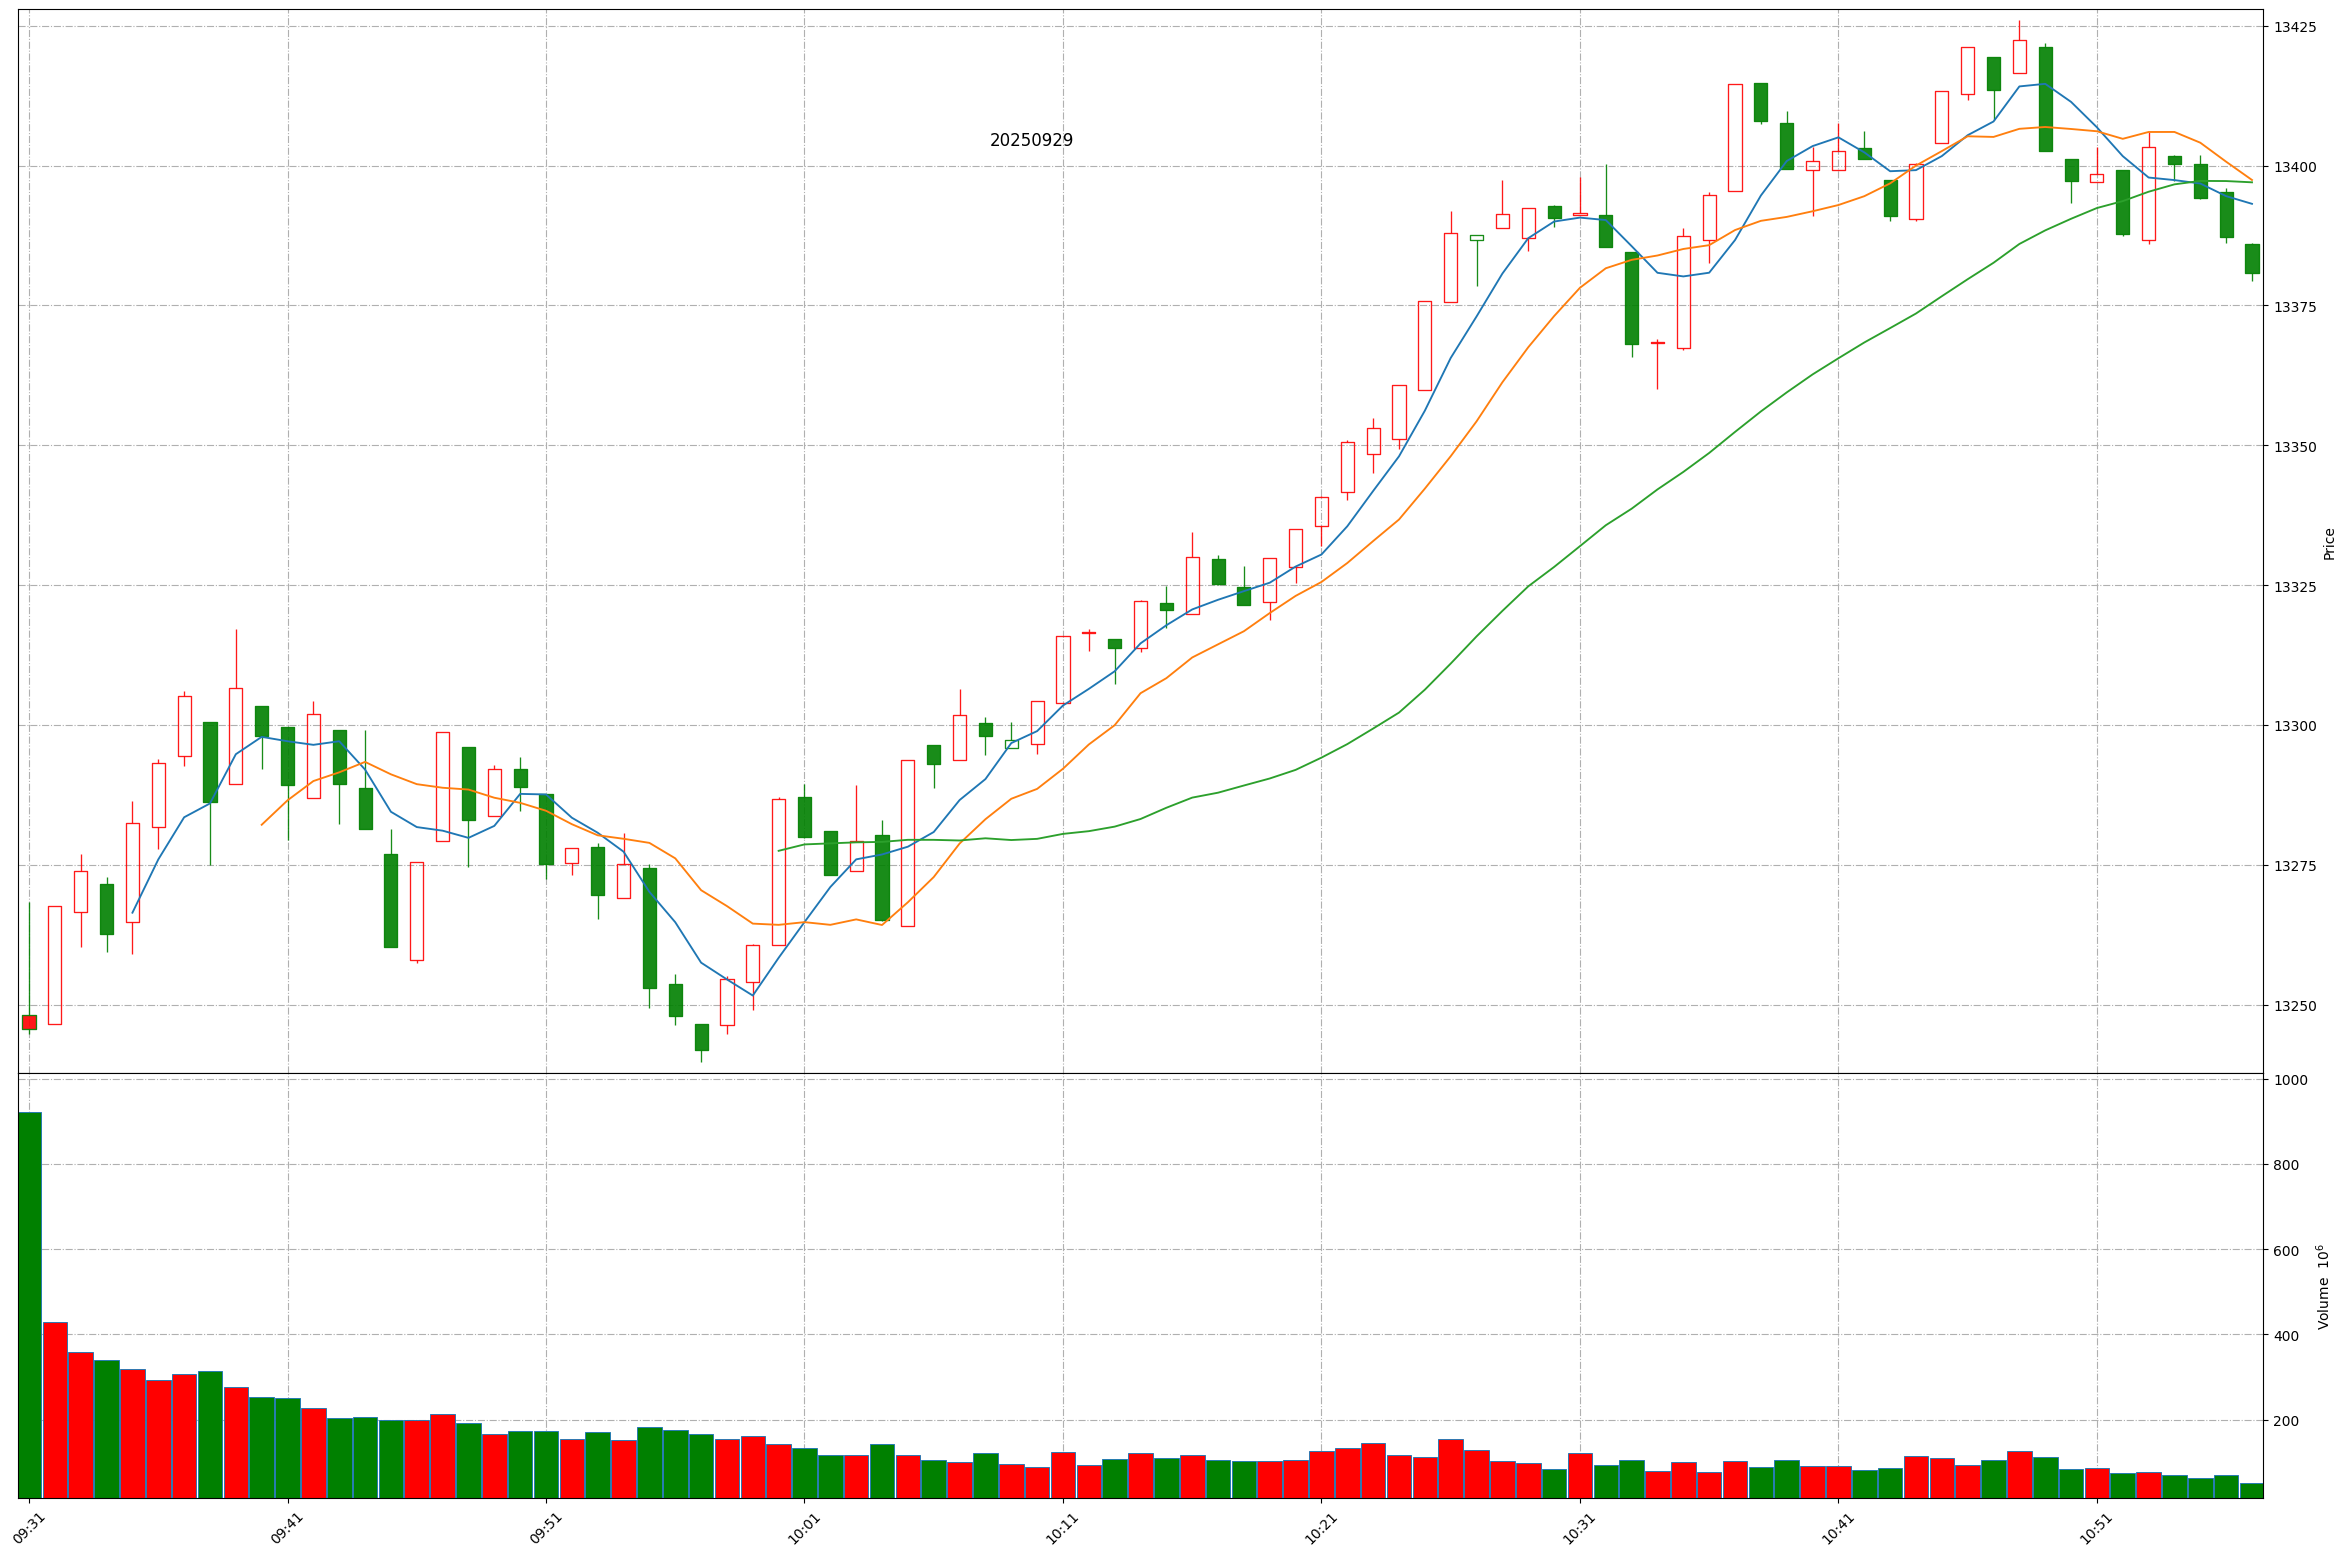
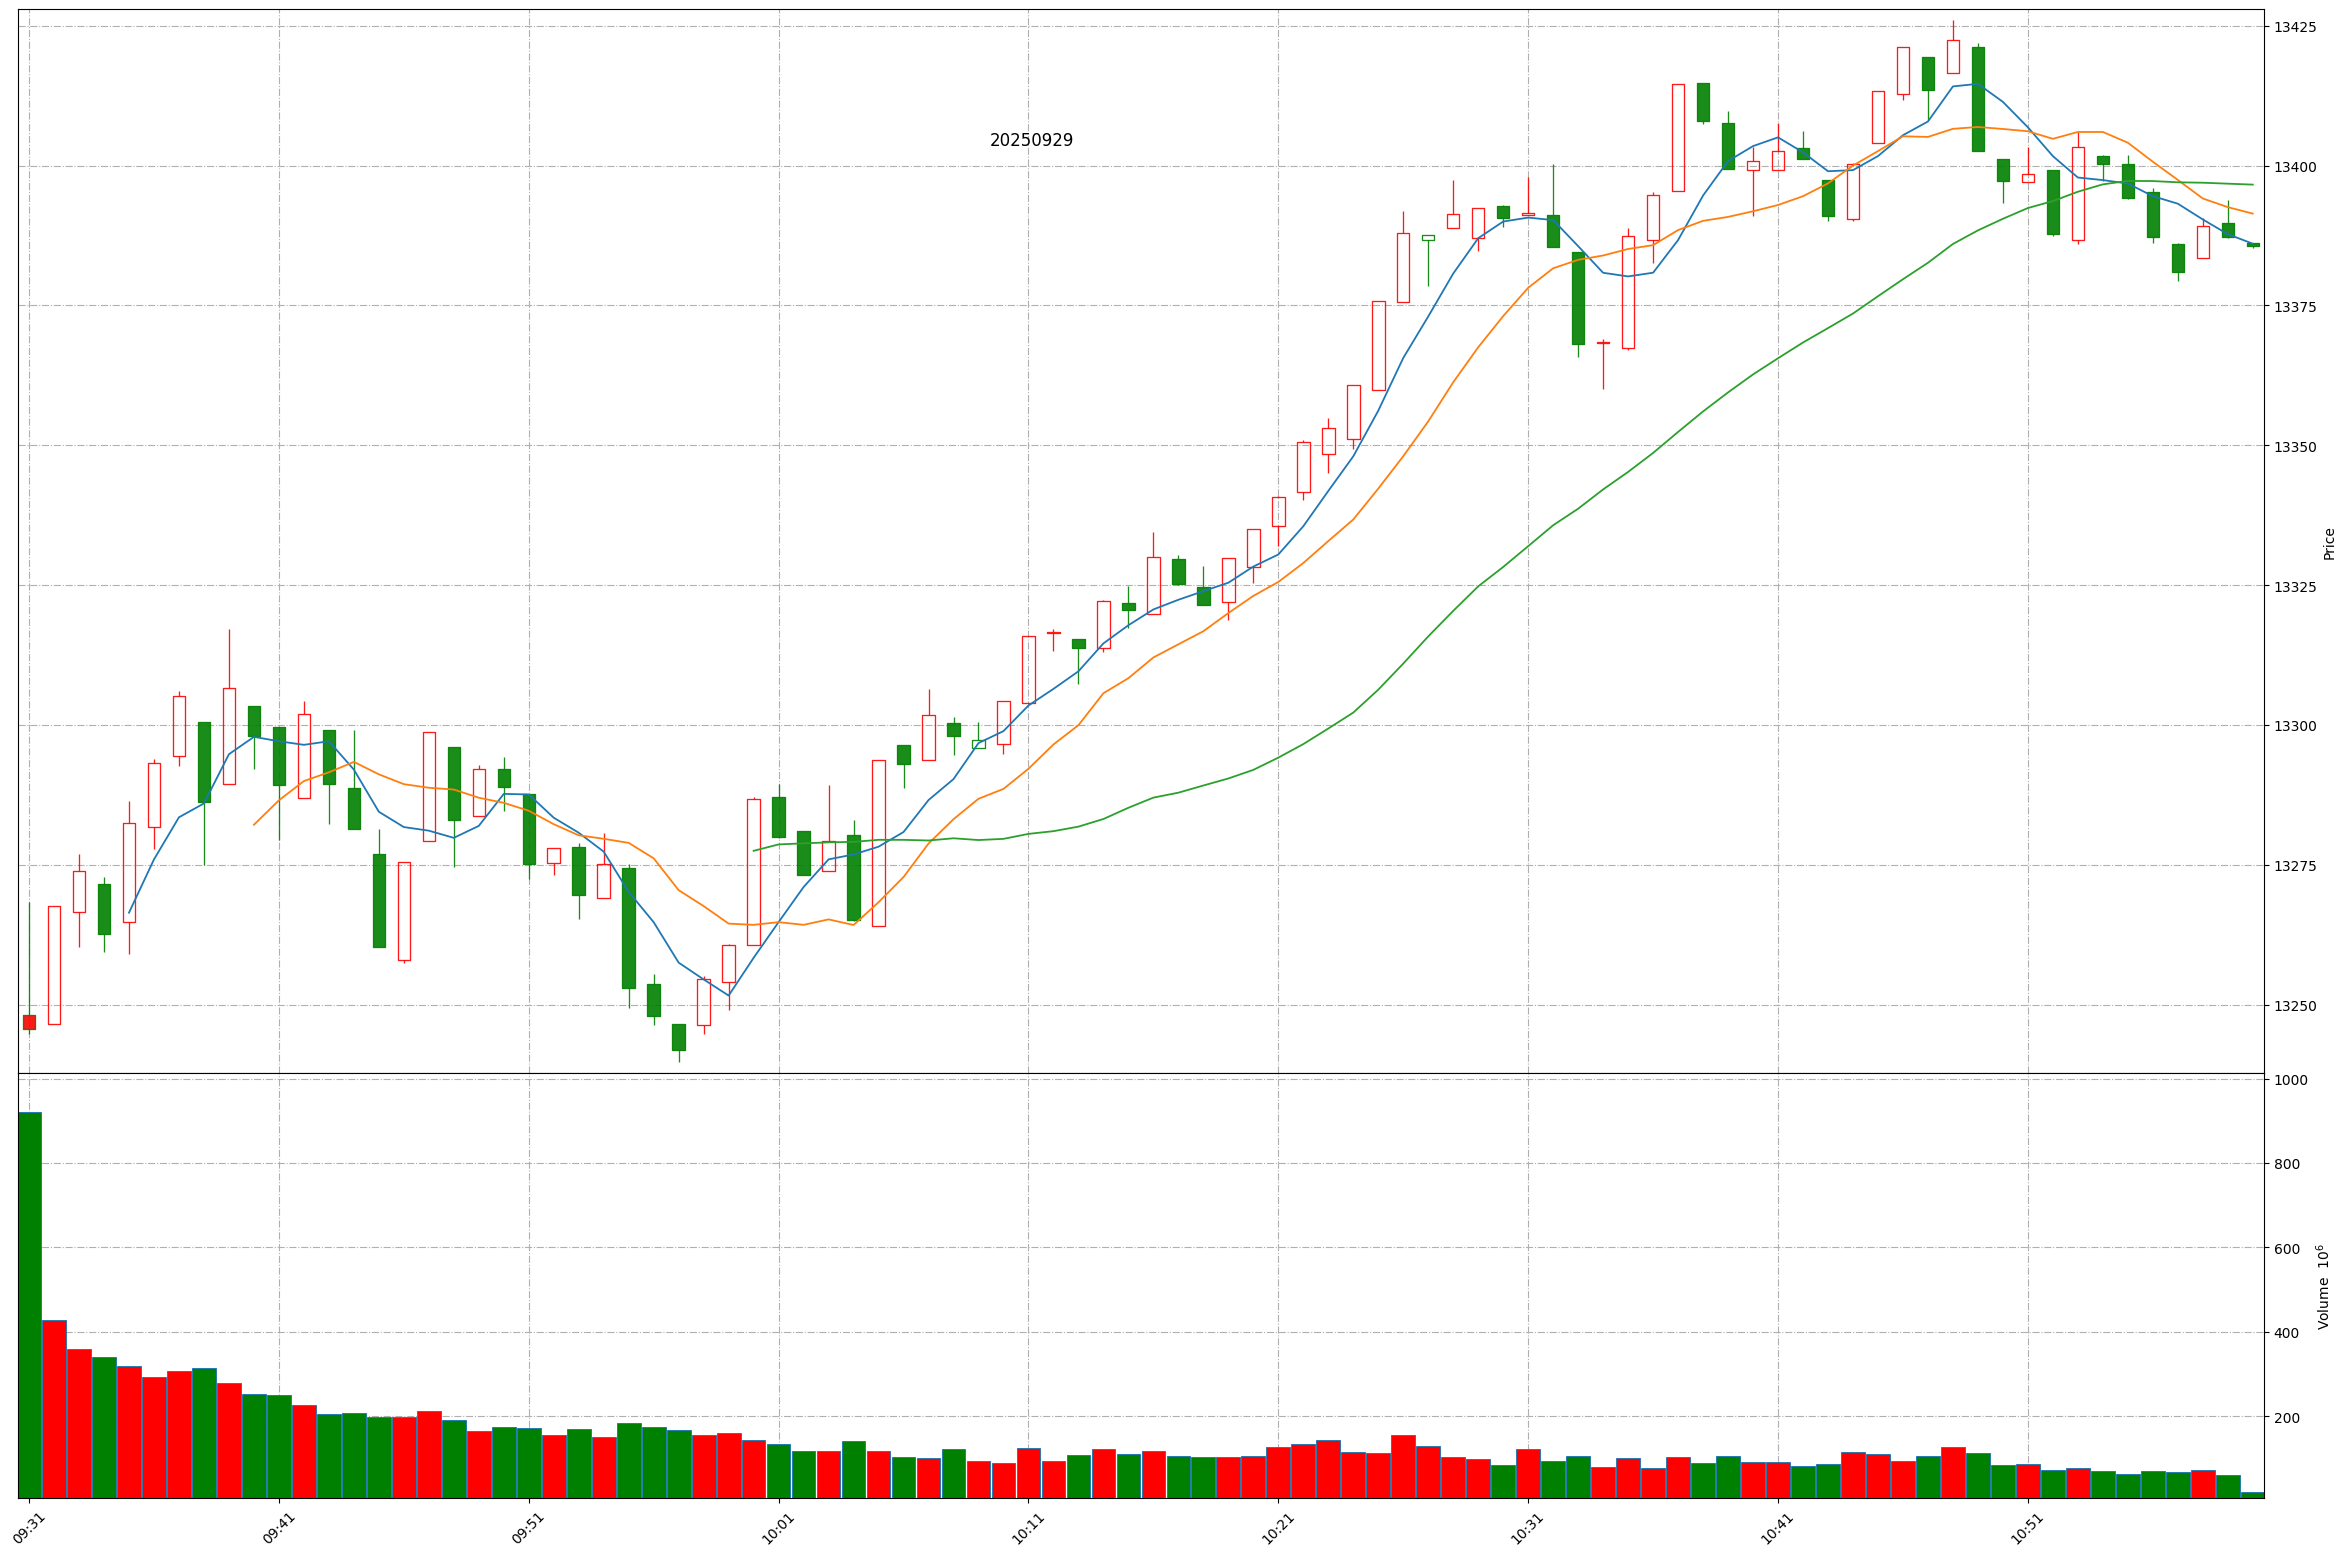
Github action update at 2025-09-29 10:59:29.

diff --git a/README.md b/README.md
@@ -1,11 +1,11 @@
 
 # Daily-A-share-market-quotes 每日 A 股指数（5min 更新）- 20250929
 
-### 上证指数 20250929 10:56
+### 上证指数 20250929 10:59
 ![](./fig/2025/9/20250929-sh000001.png)
 
-### 深证成指 20250929 10:56
+### 深证成指 20250929 10:59
 ![](./fig/2025/9/20250929-sz399001.png)
 
-### 北证50 20250929 10:56
+### 北证50 20250929 10:59
 ![](./fig/2025/9/20250929-bj899050.png)
